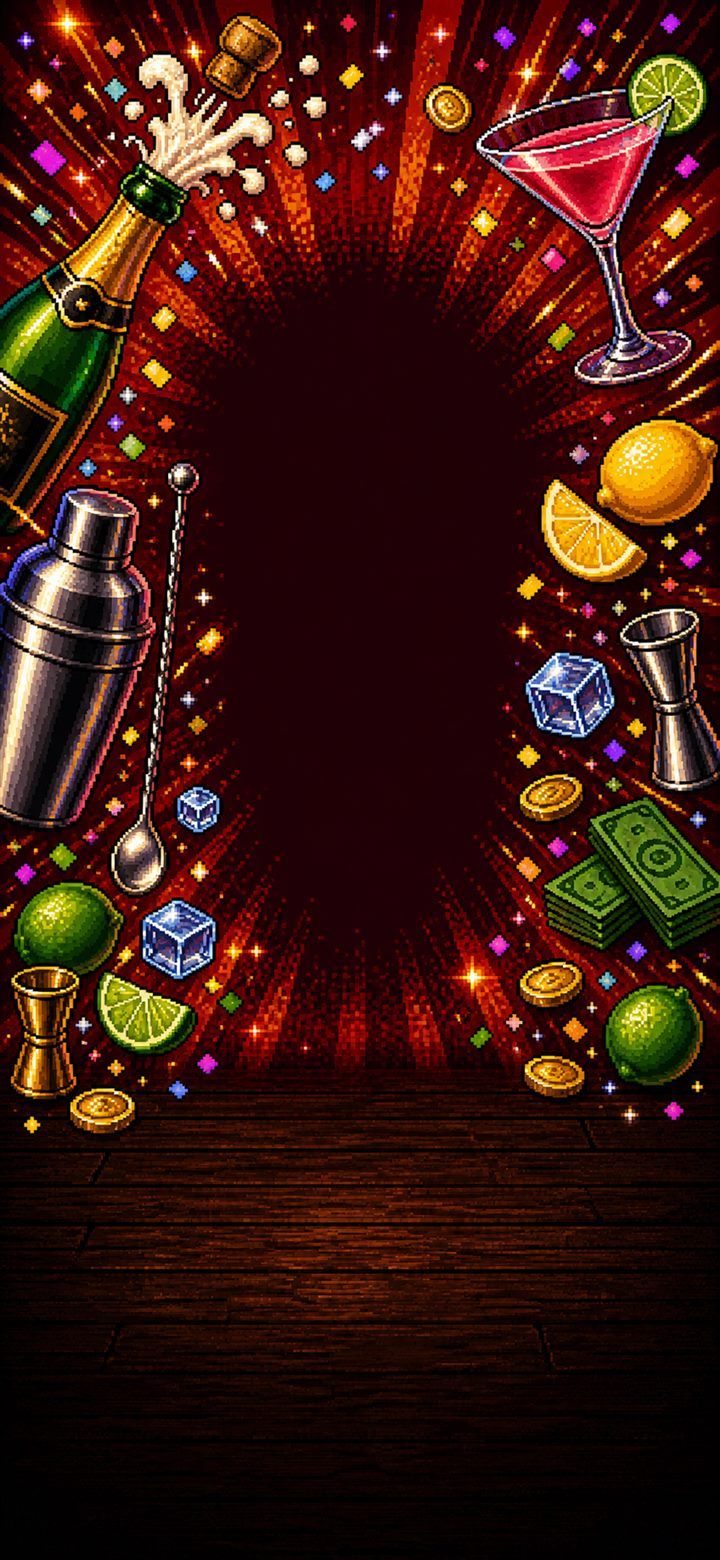
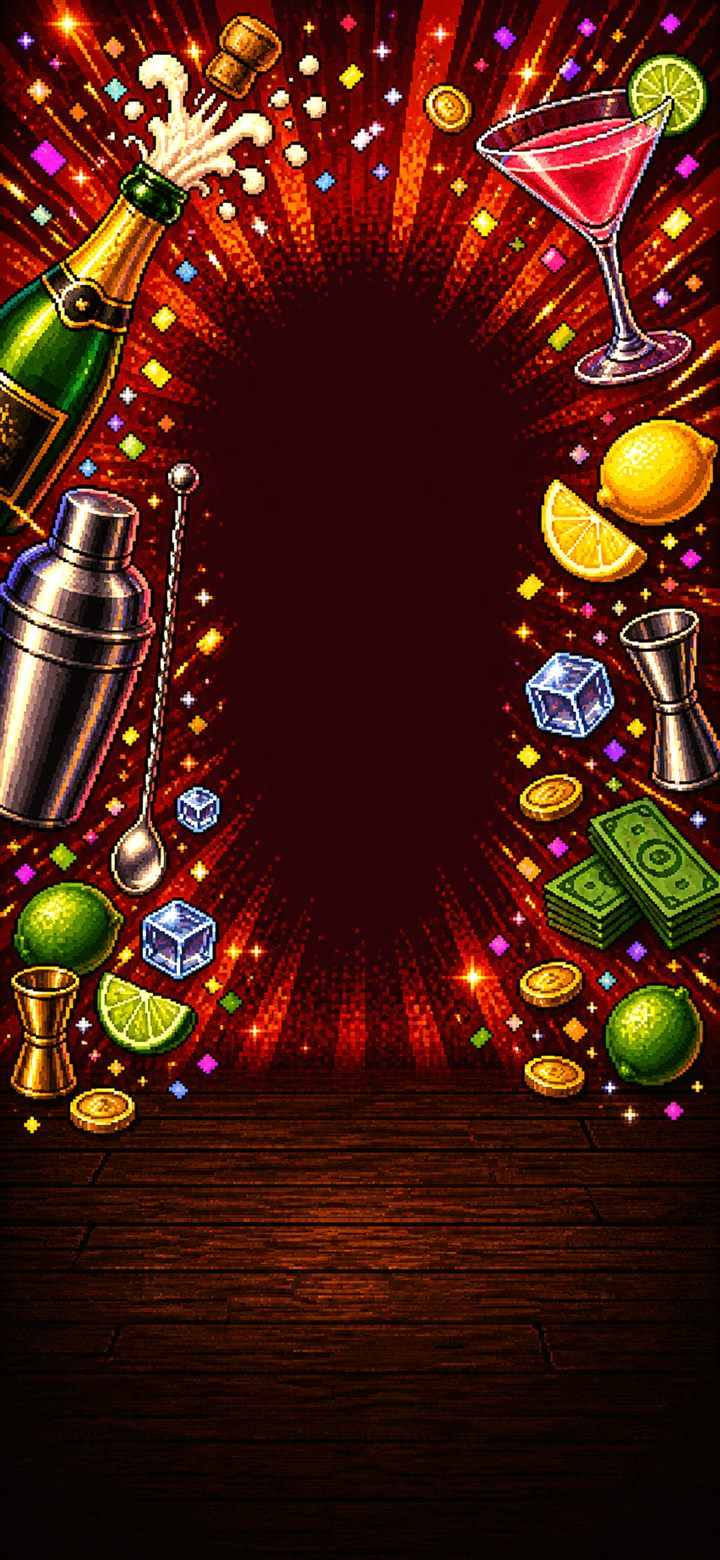
bar_party: brighter title bg + bigger game-select button font
- 타이틀 배경을 밝은 버전 톤으로 (RGB 채널 보정, 붐 선택안 재현)
- 게임 선택 버튼 폰트 clamp(7,2vw,10) -> clamp(9,3.2vw,13), 12버튼 오버플로 없음 확인

diff --git a/bar_party.html b/bar_party.html
@@ -112,7 +112,7 @@
   .rkempty{ font-size:9px; color:var(--dim); }
   .imgbtn{ image-rendering:pixelated; cursor:pointer; display:none; transition:transform .06s, filter .06s; }
   .imgbtn:active{ transform:translateY(4px) scale(0.98); filter:brightness(1.15); }
-  .sbtn2{ font-family:'Press Start 2P',monospace; font-size:clamp(7px,2vw,10px); border:none; width:100%;
+  .sbtn2{ font-family:'Press Start 2P',monospace; font-size:clamp(9px,3.2vw,13px); border:none; width:100%;
     aspect-ratio:2.5/1; background:transparent center/100% 100% no-repeat; cursor:pointer; line-height:1.35;
     letter-spacing:.3px; image-rendering:pixelated; text-shadow:1px 1px 0 rgba(0,0,0,.5); transition:transform .06s; padding:0 12px; }
   .sbtn2:active{ transform:translateY(3px) scale(.98); }
